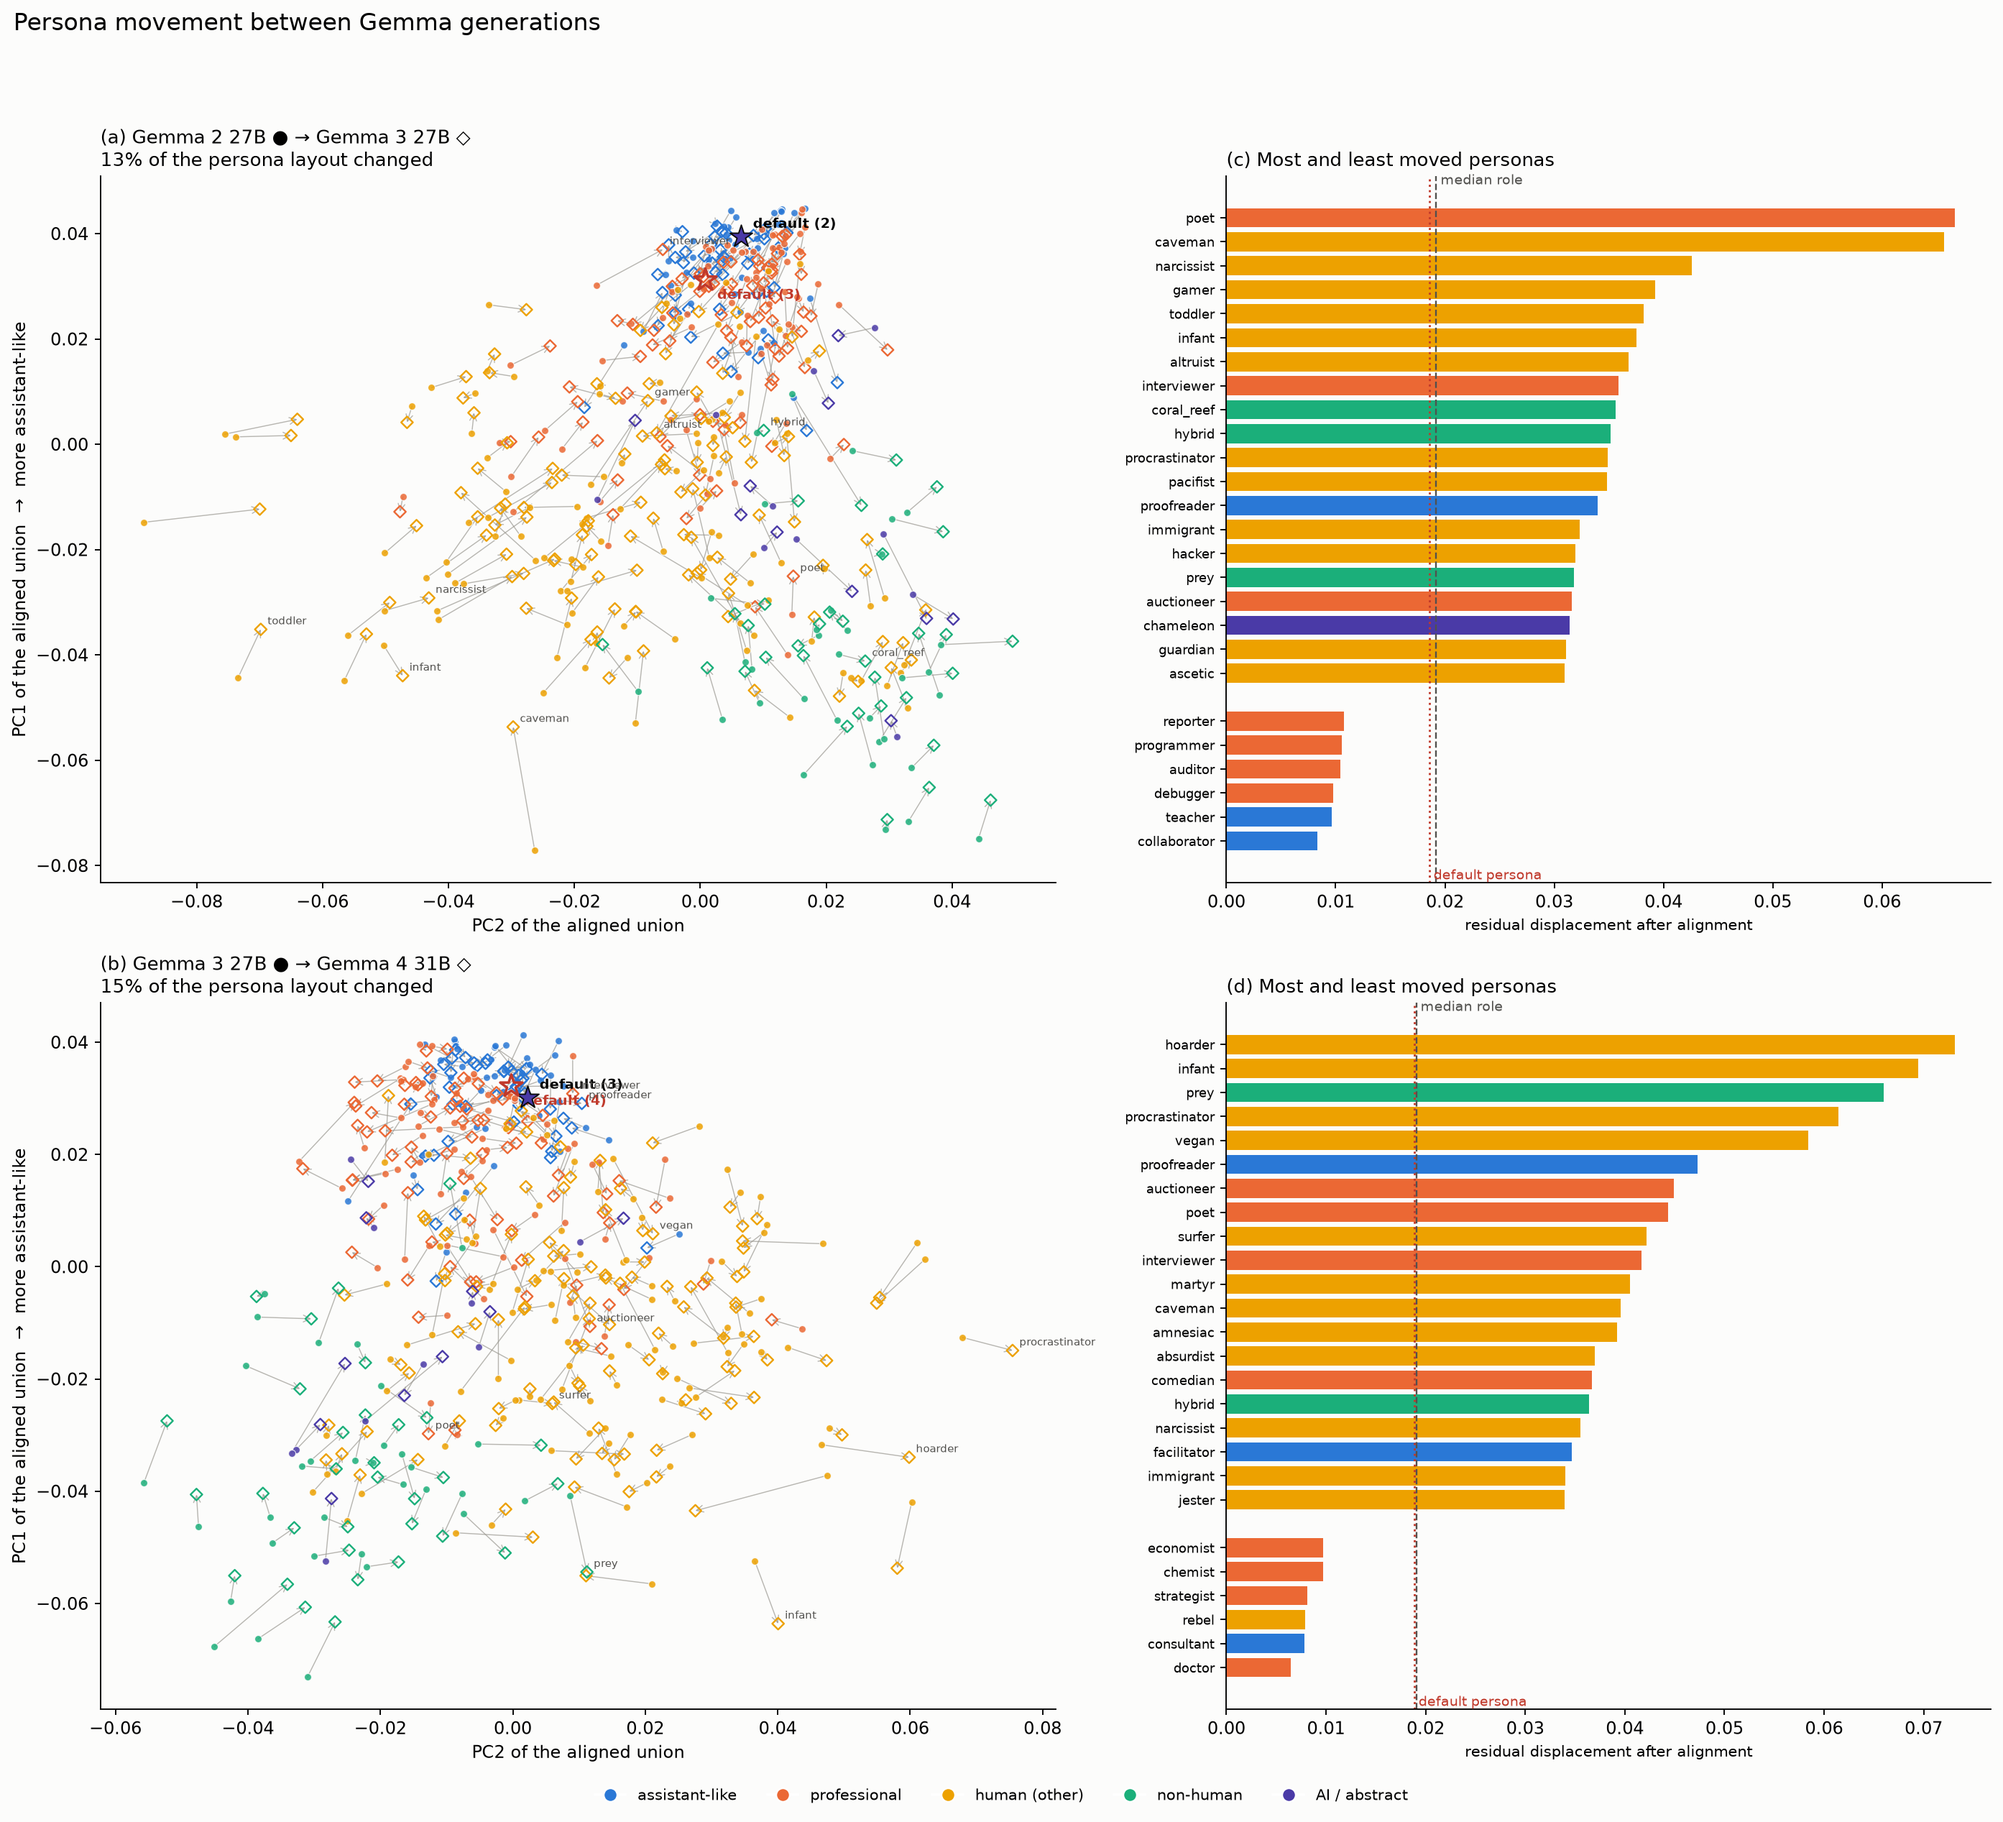
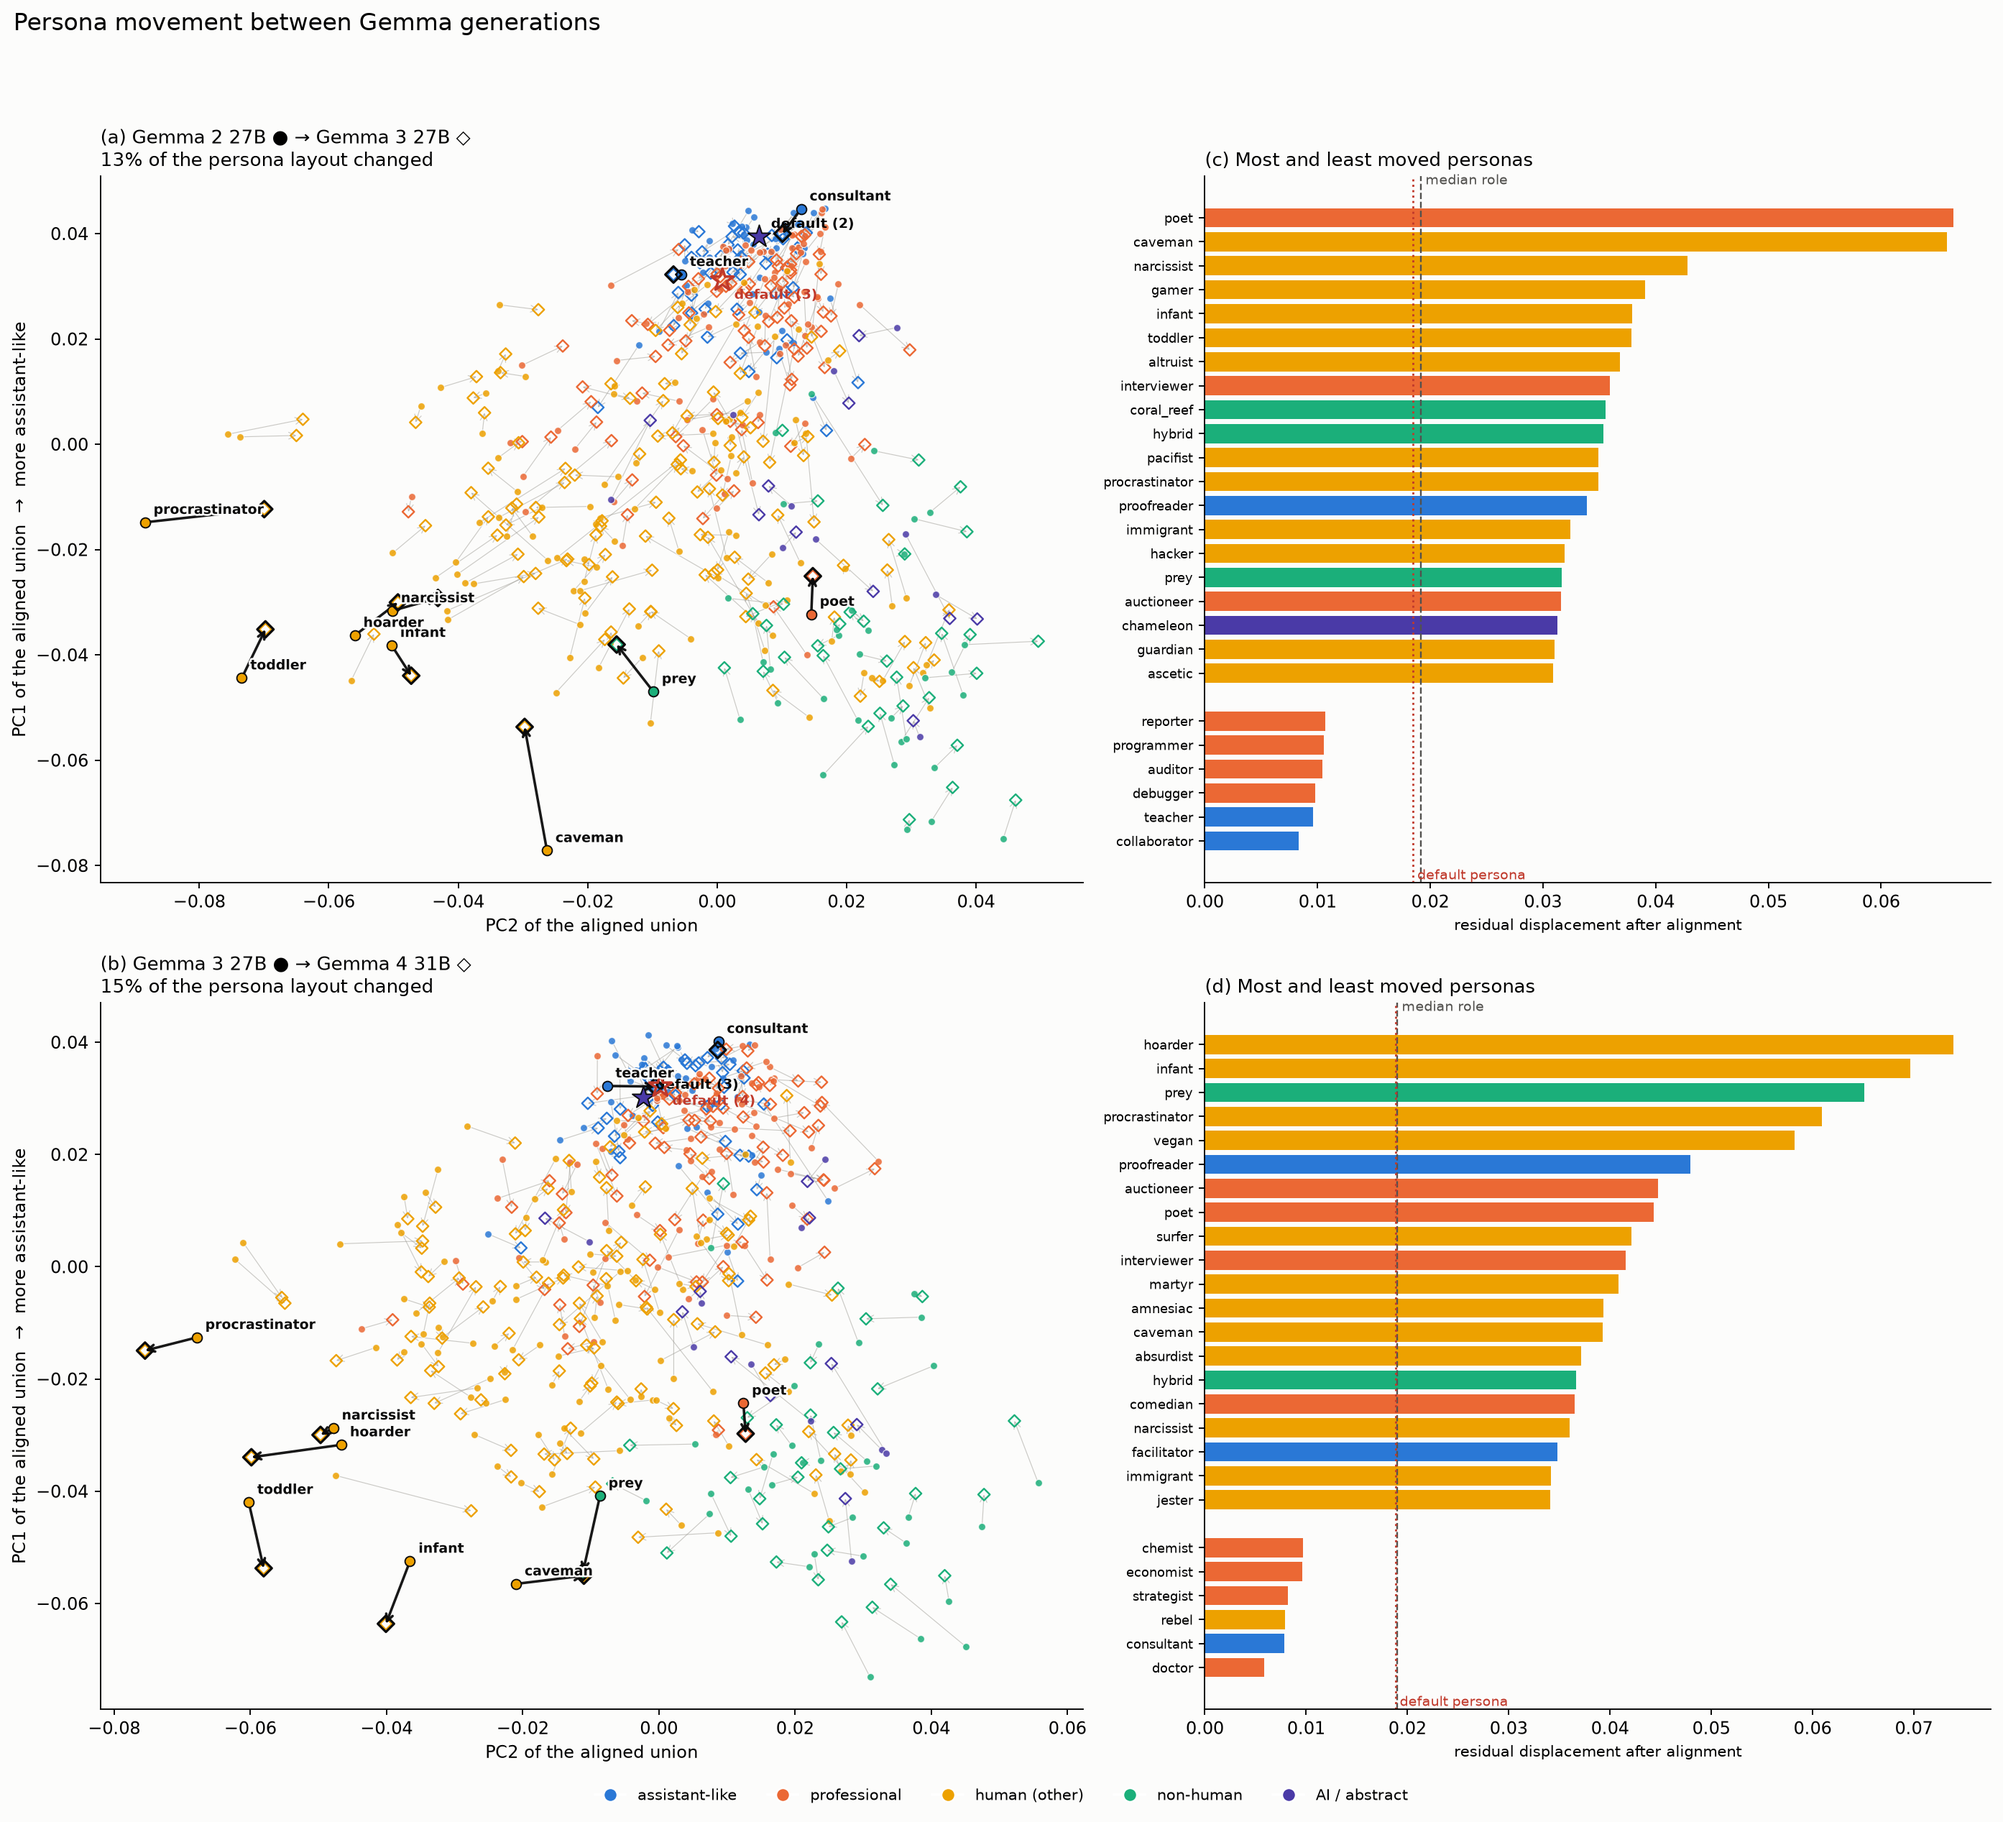
Movement figure: lock both rows to one 2D frame via the shared Gemma 3 cloud; trace labelled personas with bold arrows in both panels

diff --git a/scripts/gemma_generations_analysis.py b/scripts/gemma_generations_analysis.py
@@ -64,6 +64,8 @@ COLORS = {"assistant-like": "#2a78d6", "professional": "#eb6834", "human (other)
           "non-human": "#1baf7a", "AI / abstract": "#4a3aa7"}
 MALEVOLENT = ("demon wraith vampire parasite virus predator aberration eldritch criminal smuggler "
               "saboteur destroyer trickster rogue vigilante anarchist zealot narcissist").split()
+# personas traced with bold labelled arrows in the movement figure (big movers + stable anchors)
+HIGHLIGHT = "procrastinator poet infant narcissist caveman hoarder prey toddler teacher consultant".split()
 
 
 def load_release(d):
@@ -217,8 +219,10 @@ def main():
         M["overall_score3"] = {"g3": float(h3[3] / h3.sum()), "g4": float(h4[3] / h4.sum())}
 
     # ============================ FIGURE 1: persona movement across generations ======================
+    import matplotlib.patheffects as pe
     fig, axes = plt.subplots(2, 2, figsize=(16.5, 15), gridspec_kw={"width_ratios": [1.25, 1]})
     fig.patch.set_facecolor("#fcfcfb")
+    g3_ref = None   # Gemma 3 appears in both rows: lock row 2's 2D frame to row 1's so the panels are comparable
     for row, (a, b) in enumerate([("g2", "g3"), ("g3", "g4")]):
         A_rot, B, resid, da, db = aligned[(a, b)]
         from sklearn.decomposition import PCA as _P
@@ -227,21 +231,38 @@ def main():
         za2, zb2 = da @ p2.components_.T, db @ p2.components_.T
         if zb2[0] < np.median(Zb2[:, 0]):
             Za2[:, 0] *= -1; Zb2[:, 0] *= -1; za2[0] *= -1; zb2[0] *= -1
+        # PC2's sign is arbitrary per PCA; align it (and re-check PC1) against the shared Gemma 3 cloud
+        if row == 0:
+            g3_ref = Zb2.copy()
+        else:
+            for comp in (0, 1):
+                if np.corrcoef(g3_ref[:, comp], Za2[:, comp])[0, 1] < 0:
+                    Za2[:, comp] *= -1; Zb2[:, comp] *= -1; za2[comp] *= -1; zb2[comp] *= -1
         ax = axes[row][0]; ax.set_facecolor("#fcfcfb")
+        hi = [shared.index(r) for r in HIGHLIGHT if r in shared]
         for i in range(n):
+            if i in hi:
+                continue
             ax.annotate("", xy=(Zb2[i, 1], Zb2[i, 0]), xytext=(Za2[i, 1], Za2[i, 0]),
-                        arrowprops=dict(arrowstyle="->", color="#9a9891", lw=0.6, alpha=0.7, shrinkA=0, shrinkB=0))
+                        arrowprops=dict(arrowstyle="->", color="#9a9891", lw=0.5, alpha=0.5, shrinkA=0, shrinkB=0))
         for cat, col in COLORS.items():
             idx = [i for i, c in enumerate(cats) if c == cat]
             ax.scatter(Za2[idx, 1], Za2[idx, 0], s=18, c=col, alpha=0.85, edgecolors="#fcfcfb", linewidths=0.5, zorder=3)
             ax.scatter(Zb2[idx, 1], Zb2[idx, 0], s=24, facecolors="none", edgecolors=col, linewidths=1.0, marker="D", zorder=3)
+        # tracked personas: bold arrow, label at the start (●), emphasized endpoint (◇)
+        for i in hi:
+            ax.annotate("", xy=(Zb2[i, 1], Zb2[i, 0]), xytext=(Za2[i, 1], Za2[i, 0]),
+                        arrowprops=dict(arrowstyle="->", color="#0b0b0b", lw=1.5, alpha=0.95, shrinkA=0, shrinkB=0), zorder=5)
+            ax.scatter([Za2[i, 1]], [Za2[i, 0]], s=34, c=COLORS.get(cats[i], "#eda100"), edgecolors="#0b0b0b", linewidths=0.8, zorder=6)
+            ax.scatter([Zb2[i, 1]], [Zb2[i, 0]], s=46, facecolors="none", edgecolors="#0b0b0b", linewidths=1.4, marker="D", zorder=6)
+            ax.annotate(shared[i], (Za2[i, 1], Za2[i, 0]), xytext=(5, 5), textcoords="offset points",
+                        fontsize=8, fontweight="bold", color="#0b0b0b", zorder=7,
+                        path_effects=[pe.withStroke(linewidth=2.2, foreground="#fcfcfb")])
         ax.scatter([za2[1]], [za2[0]], s=190, marker="*", c="#4a3aa7", edgecolors="#0b0b0b", linewidths=0.8, zorder=6)
         ax.scatter([zb2[1]], [zb2[0]], s=190, marker="*", facecolors="none", edgecolors="#c0392b", linewidths=1.5, zorder=6)
         ax.annotate(f"default ({LABEL[a].split()[1]})", (za2[1], za2[0]), xytext=(7, 5), textcoords="offset points", fontsize=8, fontweight="bold")
         ax.annotate(f"default ({LABEL[b].split()[1]})", (zb2[1], zb2[0]), xytext=(7, -11), textcoords="offset points", fontsize=8, fontweight="bold", color="#c0392b")
         order = np.argsort(resid)
-        for i in list(order[-10:]):
-            ax.annotate(shared[i], (Zb2[i, 1], Zb2[i, 0]), xytext=(4, 3), textcoords="offset points", fontsize=6.5, color="#52514e")
         P = M[f"{a}->{b}"]
         ax.set_xlabel("PC2 of the aligned union", fontsize=10)
         ax.set_ylabel("PC1 of the aligned union  →  more assistant-like", fontsize=10)
